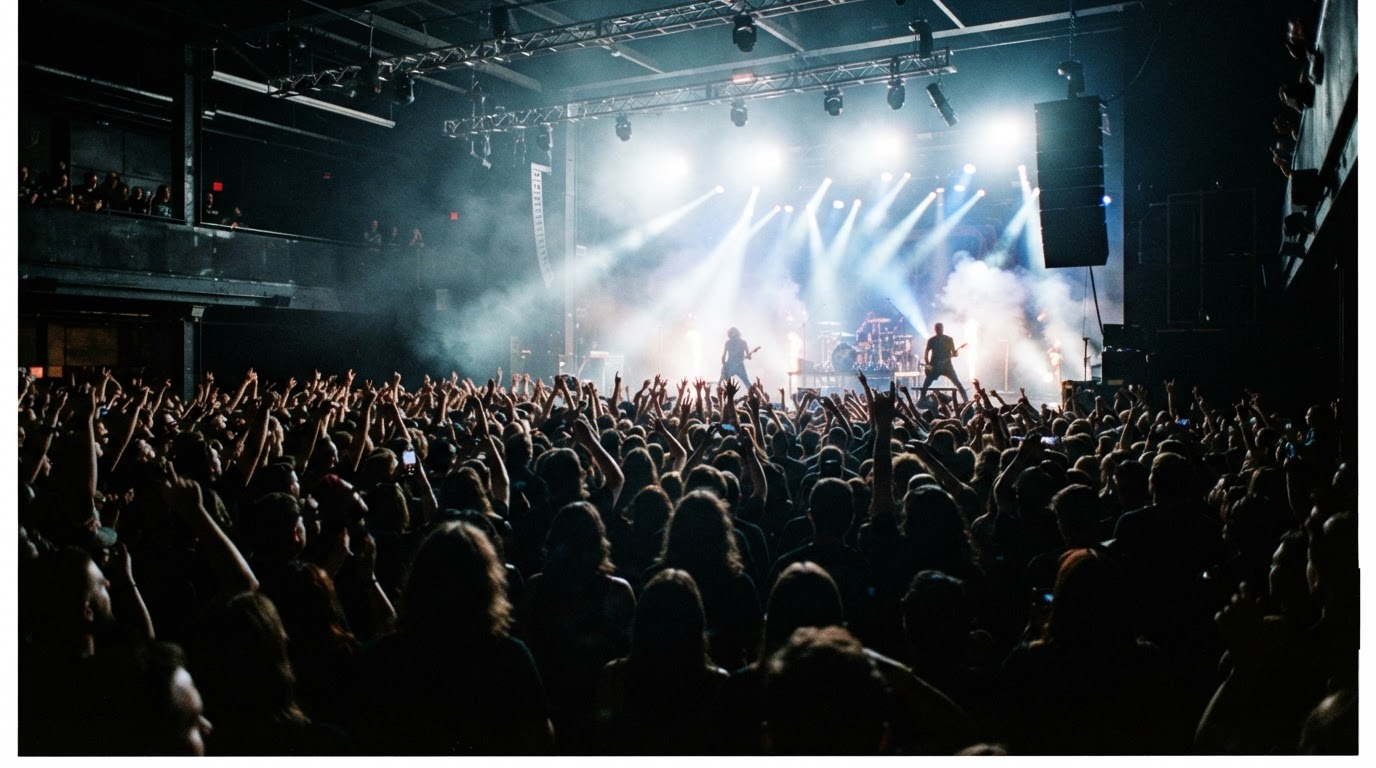
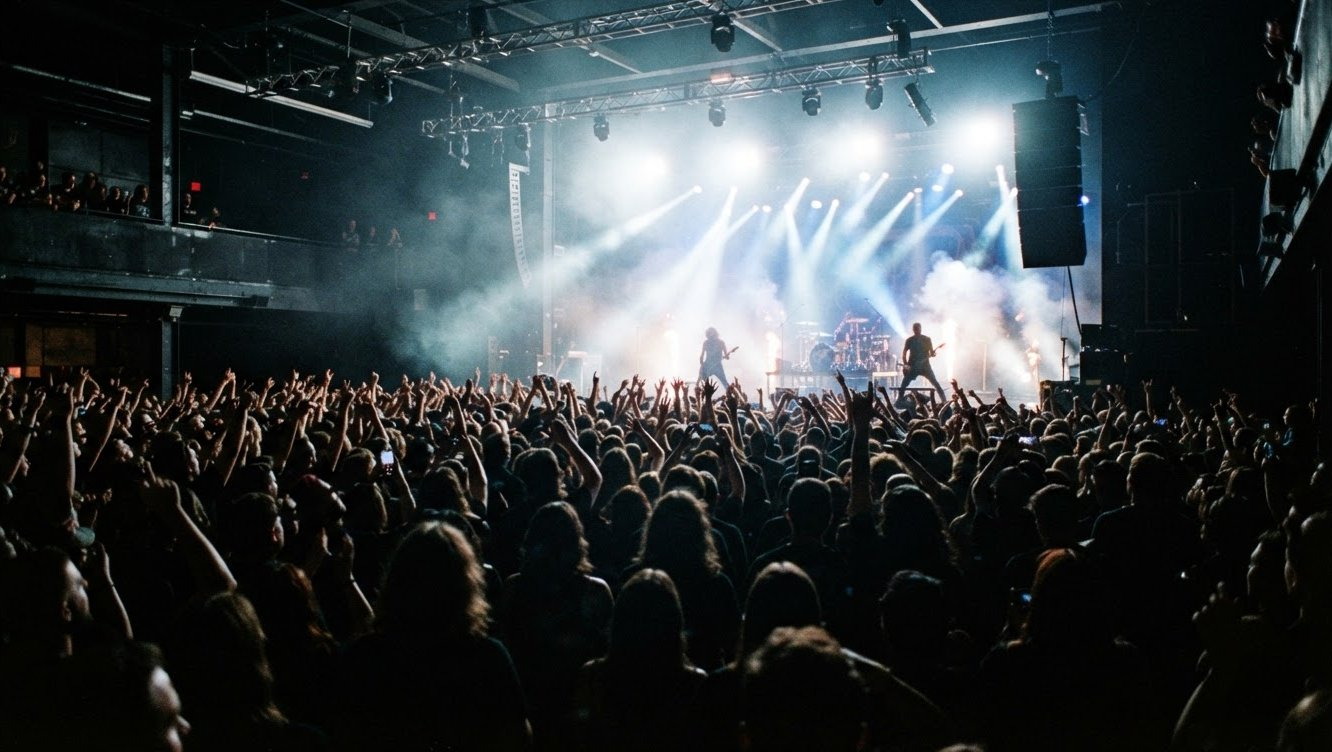
fix: crop white border from history image

diff --git a/src/components/History/History.jsx b/src/components/History/History.jsx
@@ -38,7 +38,7 @@ export default function History() {
               className={styles.img}
               loading="lazy"
               width="600"
-              height="335"
+              height="339"
             />
           </div>
         </div>
